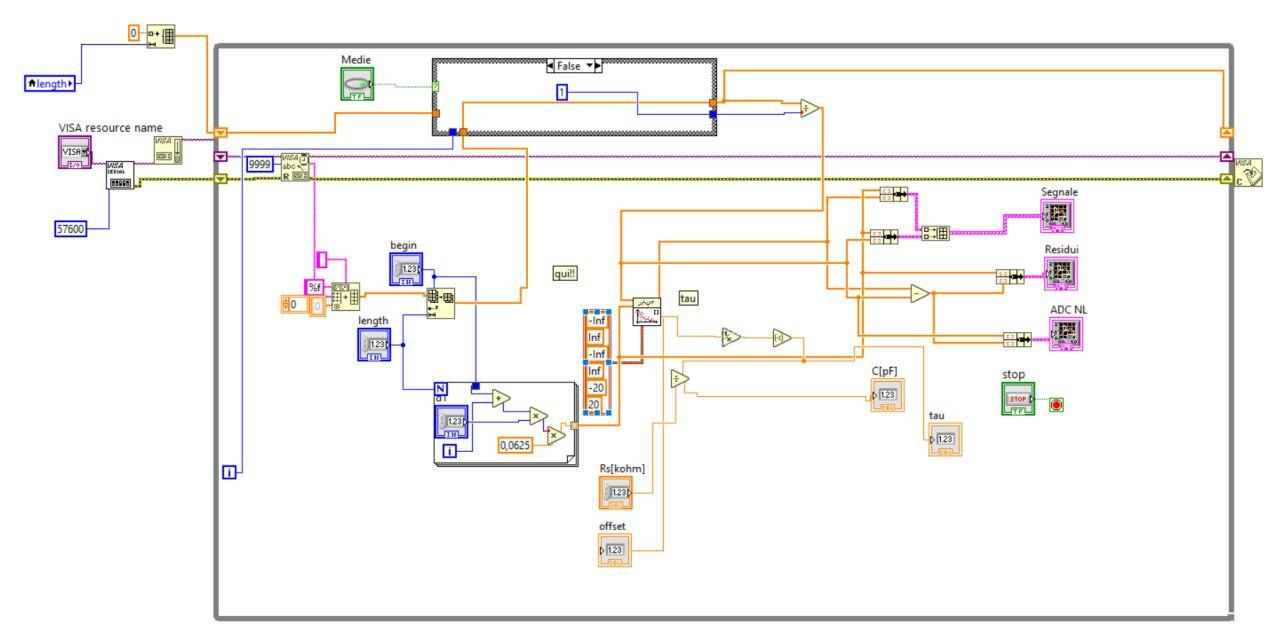
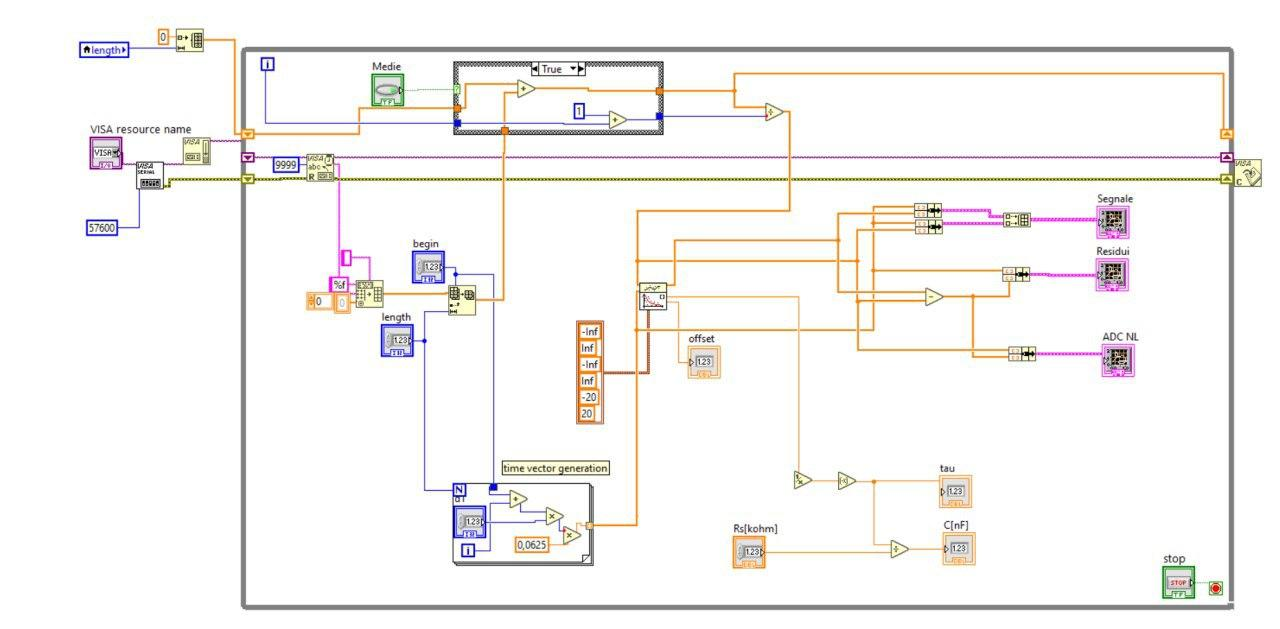
update docu

Changed region(s): [[0.0, 0.0303, 1.0, 0.9984], [0.0312, 0.3328, 0.125, 0.3933]]

diff --git a/Capacimeter/README.md b/Capacimeter/README.md
@@ -4,18 +4,19 @@
 
 For all the three versions of this project, the circuit scheme is shown below
 <p align="center">
-  <img src="scheme.png" width="500" title="hover text">
+  <img src="scheme.png" width="500" title="circuit scheme">
 </p>
+
 
 * **Capacitor range for a good accuracy** : 
 
-  > 1 nF - 1 &mu;F  
+  > text1 nF - 1 &mu;F  
   >
   > 1 pF - 1 &mu;F ("advanced" version, which **requires LabView**) 
 
 * **Resistor value** : 100 k&Omega;   
 
-	
+	**NOTICE** : do not forget that both the resistor and the capacitor have their own tolerance which will definitely affect the accuracy of your measurement. Thereby, you should use a 1% resistor for a better result. In addition, keep in mind that you won't get the nominal value of your capacitor if you're not using a precise one, e.g. the "real value"  for a 20% 10 nF capacitor is in the range  8 - 12 nF. Do not expect to read the exact nominal value if your component has a huge tolerance.  
 
 ## Basic Version
 
@@ -64,9 +65,11 @@ We only keep 1 out 2 samples and increase threshold B every two samples.
 
 To efficiently employ dithering, the noise network (50 Hz) must be unrelated with respect to the sampling period. Hence T must be a prime multiple of the system clock, e.g. 21013.
 
-To reduce the offset error, we can employ an exponential fitting .
+To reduce the offset error, we can employ an exponential fitting . Here's the front panel and the labview G language program.
 
 <p align="center">
-  <img src="labview.jpg" width="1000" title="hover text">
+  <img src="frontpanel.jpg" width="700" title="front panel">
 </p>
-
+<p align="center">
+  <img src="labview.jpg" width="900" title="LabView diagram">
+</p>
